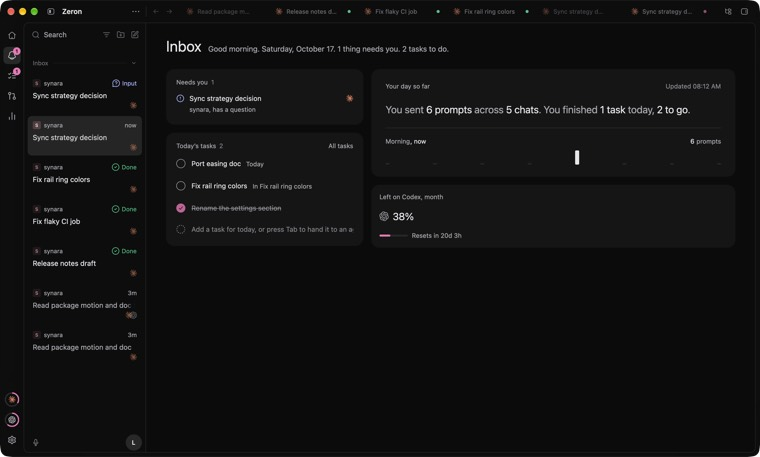
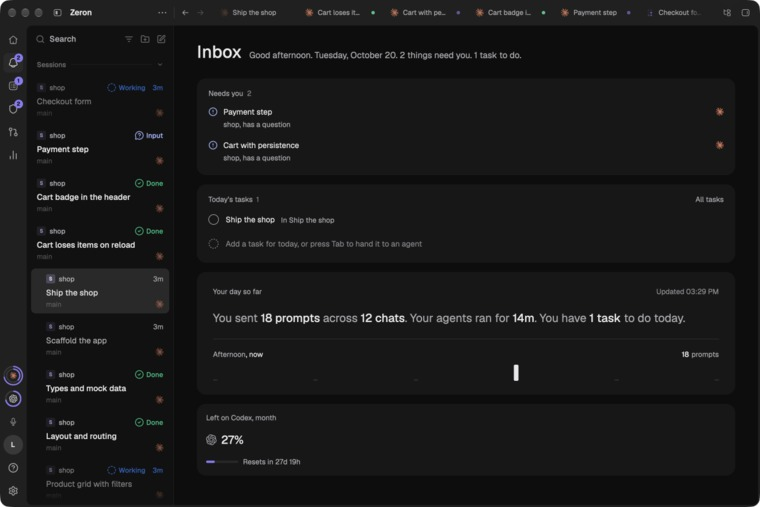
docs: screenshots for the Work articles
Add project and project actions, the right pane menu and a commented diff,
the Live state column, the terminal drawer, the Git tab commit panel and
commit composer, a task card, the Mission Control tree with card A and the
lead's strip, the Supervisor's decision sheet and Authority popover, split
view, and re-shot Inbox, Usage and Kanban images on the current rail.

diff --git a/crates/ui/src/whats_new.rs b/crates/ui/src/whats_new.rs
@@ -183,6 +183,62 @@ const IMAGES: &[(&str, &[u8])] = &[
         "agent-tools-settings.jpg",
         include_bytes!("../assets/whats_new/agent-tools-settings.jpg"),
     ),
+    (
+        "projects-add.jpg",
+        include_bytes!("../assets/whats_new/projects-add.jpg"),
+    ),
+    (
+        "projects-actions.jpg",
+        include_bytes!("../assets/whats_new/projects-actions.jpg"),
+    ),
+    (
+        "right-pane-menu.jpg",
+        include_bytes!("../assets/whats_new/right-pane-menu.jpg"),
+    ),
+    (
+        "right-pane-diffs.jpg",
+        include_bytes!("../assets/whats_new/right-pane-diffs.jpg"),
+    ),
+    (
+        "live-state-column.jpg",
+        include_bytes!("../assets/whats_new/live-state-column.jpg"),
+    ),
+    (
+        "terminal-drawer.jpg",
+        include_bytes!("../assets/whats_new/terminal-drawer.jpg"),
+    ),
+    (
+        "git-commit-panel.jpg",
+        include_bytes!("../assets/whats_new/git-commit-panel.jpg"),
+    ),
+    (
+        "git-commit.jpg",
+        include_bytes!("../assets/whats_new/git-commit.jpg"),
+    ),
+    (
+        "tasks-card.jpg",
+        include_bytes!("../assets/whats_new/tasks-card.jpg"),
+    ),
+    (
+        "mission-control-tree.jpg",
+        include_bytes!("../assets/whats_new/mission-control-tree.jpg"),
+    ),
+    (
+        "mission-control-strip.jpg",
+        include_bytes!("../assets/whats_new/mission-control-strip.jpg"),
+    ),
+    (
+        "supervisor-feed.jpg",
+        include_bytes!("../assets/whats_new/supervisor-feed.jpg"),
+    ),
+    (
+        "supervisor-authority.jpg",
+        include_bytes!("../assets/whats_new/supervisor-authority.jpg"),
+    ),
+    (
+        "split-view.jpg",
+        include_bytes!("../assets/whats_new/split-view.jpg"),
+    ),
 ];
 
 pub struct Picture {

diff --git a/crates/ui/docs/mission-control.md b/crates/ui/docs/mission-control.md
@@ -41,6 +41,8 @@ In an open chat, press Shift+Tab in the composer, or click **Mission Control** u
 
 A Mission Control task opens its own page instead of the card, from the Tasks list, the board, the Inbox, the **Missions** widget on Home, the Supervisor's **Missions** list, or the strip at the top of its chats. The back button in the titlebar takes you back: to the chat you came from, named after it, or else to **Tasks**.
 
+![A mission's plan as a tree](mission-control-tree.jpg)
+
 The header shows the task's title, and under it the lead's agent and model and when the mission started, or when it finished. On the right:
 
 - A status pill: **Needs you** with what waits (**plan review**, **1 question**), **1 step failed**, **✓ Done**, or the lead's state (**Planning**, **Working**, **Idle**). Click **Needs you** or **failed** for a small window that lists those steps, with **Open thread** and **Answer**, **Approve and run** for a plan that waits for you, or **Skip** and **Retry**.
@@ -117,6 +119,8 @@ The lead's chat and the chat of every step show a strip at the top of the conver
 - **Mission Control**.
 
 In the lead's chat, the strip also shows the mission as a tree: the lead with what it is doing, and each step on its own line under it with its state, its agent's mark and, while it works, the time so far. Running steps shimmer; the lines to each step draw themselves in as the plan arrives. The button at the end of the lead's line (**6** with a chevron) folds the steps away; click it again to bring them back. Click the strip's top row to fold the whole tree into the strip, and again to open it. With reduced motion, the tree appears and folds at once.
+
+![The mission strip at the top of a lead's chat](mission-control-strip.jpg)
 
 Click **Mission Control** in the strip to open the task's Mission Control page with that thread live on the right. Click a step's line in the tree to open that step's chat; a step with no thread yet opens Mission Control on that step. The lead's own line does nothing there, since you are already in its chat. From a step's chat, clicking the strip opens the page with that step selected. The page slides in from the right over the chat. Back, or the chat's name in the titlebar, slides it out to the right and returns you to the chat where you left it, scrolled where it was. Opening the page from anywhere else in a chat, or going back and forward between them, moves the same way. With reduced motion, the page fades in and out instead. The strip goes away when the task is deleted.
 

diff --git a/crates/ui/docs/supervisor.md b/crates/ui/docs/supervisor.md
@@ -59,6 +59,8 @@ Rows leave the inbox when they are done, and wait in **Earlier** under it, close
 
 A mission's open decisions form one sheet, one row per decision: the question, a segmented choice with one segment per option, and the detail in faint text. They are decisions its lead or the Supervisor raised, and the questions and tool approvals its threads wait on. A question with several parts takes one line per part.
 
+![The Supervisor's feed](supervisor-feed.jpg)
+
 Picking an option does not send it. The pick is staged: its segment fills, and the row keeps its amber dot because nothing has been sent. Click another option to change it, or the same one to clear it. The footer counts the picks, **2 of 5 picked**, and **Send 2 to the Lead ⌘↵** sends every finished pick of that mission at once. ⌘↵ works after a click on the sheet. The lead gets all of the mission's decisions in one message, so it wakes once, not once per decision. A thread's question or approval is answered in that thread, the same way you answer it in the chat, so the button reads **to the step** when it answers a step.
 
 Staged picks stay while Zeron runs, also when you leave the page and come back. They are not saved when Zeron quits: a decision can be answered elsewhere in the meantime, and an old pick would then send an answer you no longer meant.
@@ -133,6 +135,8 @@ Click the × to close the drawer.
 ## Authority and the wake log
 
 Click the gear in the header to open **Authority** and the **Wake log**. Click outside it or press Esc to close it.
+
+![The Supervisor's Authority popover with Decide for me](supervisor-authority.jpg)
 
 **Authority** sets what the Supervisor may do on its own:
 

diff --git a/crates/ui/docs/git.md b/crates/ui/docs/git.md
@@ -10,6 +10,8 @@ The checkout chip in the toolbar chooses what you look at: **Main checkout**, or
 
 The main area is the commit graph, with **Fetch all**, commit search, and a toggle for branch tips only.
 
+![The Git tab with a commit open](git-commit-panel.jpg)
+
 Click a commit to open the commit panel. It shows the author, date, parents, and SHA, plus **Files** with each diff inline. From there you can **Checkout**, **Cherry-pick**, **Copy SHA**, or **Create branch** at that commit. Drag the panel's left edge to resize it, and double-click the edge to reset it.
 
 ## Commit
@@ -21,6 +23,8 @@ Click the top row, **Uncommitted changes**, click the commit button next to the 
 - Type a message in the box and press Cmd+Enter to commit the staged files. Plain Enter adds a new line.
 - Click **Write with AI** to draft the message from the staged diff. The model chip beside it picks a model for this commit only.
 - The chevron next to the composer's commit button offers **Commit**, **Amend**, and **Commit all**.
+
+![Writing a commit](git-commit.jpg)
 
 When an agent is working in the same checkout, a banner says what the Git tab can still do.
 

diff --git a/crates/ui/docs/projects.md b/crates/ui/docs/projects.md
@@ -4,6 +4,8 @@ A project is a folder on one of your devices that agents work in. Chats in a pro
 
 Click the folder button at the top of the sidebar (tooltip **New project**), press Cmd+Shift+N, or pick **New project** in the Cmd+K palette.
 
+![Adding a project](projects-add.jpg)
+
 Pick a device, a location (**Home** or a drive), then folders. Type to filter, press Enter to open a folder, and Left to go back up. With the folder you want open, click **Add project** or press Cmd+Enter.
 
 ## Rename or remove
@@ -25,6 +27,8 @@ With the switch on, click **Browse** to pick the folder; on another device you p
 ## Actions
 
 Actions are saved commands for a project, such as a dev server, a build, or tests. They show in the **Actions** section of the **Live state** column beside a chat, and in the Cmd+K palette.
+
+![Project actions in the Live state column](projects-actions.jpg)
 
 - Click **Add action**, then fill in **Name**, **Command**, and **Icon**, and click **Save action**.
 - Click an action to run it. It opens in a new tab of the chat's terminal, in the chat's folder, and shows **Running**, **Done**, or **Failed**.

diff --git a/crates/ui/docs/right-pane.md b/crates/ui/docs/right-pane.md
@@ -15,6 +15,8 @@ While this chat's subagents run, the Files button shows how many, because they a
 
 An empty right pane lists what it can show. Once a tab is open, click **+** (tooltip **New tab**) for the same list, plus **Files**, which docks the Files panel.
 
+![The right pane's + menu](right-pane-menu.jpg)
+
 | Row | Opens |
 | --- | --- |
 | **Browser** | A web browser tab. See [Browser](zeron://docs/browser). |
@@ -69,6 +71,8 @@ Click a file name on a tool row in the transcript: if that file has uncommitted 
 ### Comment on a line
 
 Hover a line and click the **+** in the line numbers. Type in **Request a change…** and click **Comment** or press Enter (Shift+Enter adds a line, Escape cancels). In split view only the new (right) side takes comments.
+
+![Reviewing changes in the Diffs tab](right-pane-diffs.jpg)
 
 The comment stays on its line, with an edit button and **Remove comment** on hover. Comments belong to the chat, so they show in every Diffs tab where that line appears.
 

diff --git a/crates/ui/docs/split-view.md b/crates/ui/docs/split-view.md
@@ -4,6 +4,8 @@ Split view shows two sessions side by side, each with its own live transcript an
 
 Open a session, then drag another session onto the conversation. You can drag a row from the sidebar, a thread row from the Cmd+K palette, or a tab from the titlebar. Two drop zones appear, **Split left** and **Split right**. Drop on one to pair the sessions on that side.
 
+![Two sessions side by side](split-view.jpg)
+
 - Dropping onto the composer instead adds a mention of that thread to your message.
 - Drafts, terminal tabs, and the session you already have open cannot be split; their drop zones dim.
 - Dropping on a side that already holds a session replaces it. Dropping one half onto the other side swaps them.

diff --git a/crates/ui/docs/tasks.md b/crates/ui/docs/tasks.md
@@ -24,6 +24,8 @@ Click a task to open its card beside the list. Edits save on their own. You can 
 - a due date: **No date**, **Today**, or **Tomorrow**
 - the project, or **No project**
 
+![A task card with Hand it to](tasks-card.jpg)
+
 The **⋯** button next to the close button holds **Mark as done** and **Delete**. Delete does not ask first. Press Escape or click the close button to close the card.
 
 Under **Hand it to**, three tabs pick who does the task: **New chat**, **Thread** or **Mission Control**. Each tab shows only its own settings and its own button, and Cmd+Enter presses that button.

diff --git a/crates/ui/docs/terminal.md b/crates/ui/docs/terminal.md
@@ -4,6 +4,8 @@ Zeron has real terminals in three places: a drawer under each chat, full-window 
 
 Press Cmd+J, or click the terminal button at the far right of the session footer (tooltip **Terminal**), to open the drawer under the chat. Press Cmd+J again to close it and return to the composer. The footer button stays highlighted while the drawer is open.
 
+![The terminal drawer under a chat](terminal-drawer.jpg)
+
 Each chat keeps its own drawer tabs, and they keep running when you switch chats. The first tab opens in the chat's folder.
 
 - Click **+** (tooltip **New terminal**) for another tab.

diff --git a/crates/ui/docs/live-state.md b/crates/ui/docs/live-state.md
@@ -1,5 +1,7 @@
 The **Live state** column sits on the right of a chat's conversation. It sums up what the chat has open and running: its workspace, side chats, actions, subagents, attachments, and usage. Click a row to jump to what it names.
 
+![The Live state column](live-state-column.jpg)
+
 ## Show and hide it
 
 The chevron at the top collapses the column to a narrow rail of icons, and the rail's chevron (**Expand live state**) brings it back. Zeron remembers your choice. Hover a rail icon to see its label and value; click it to do what the row does.
